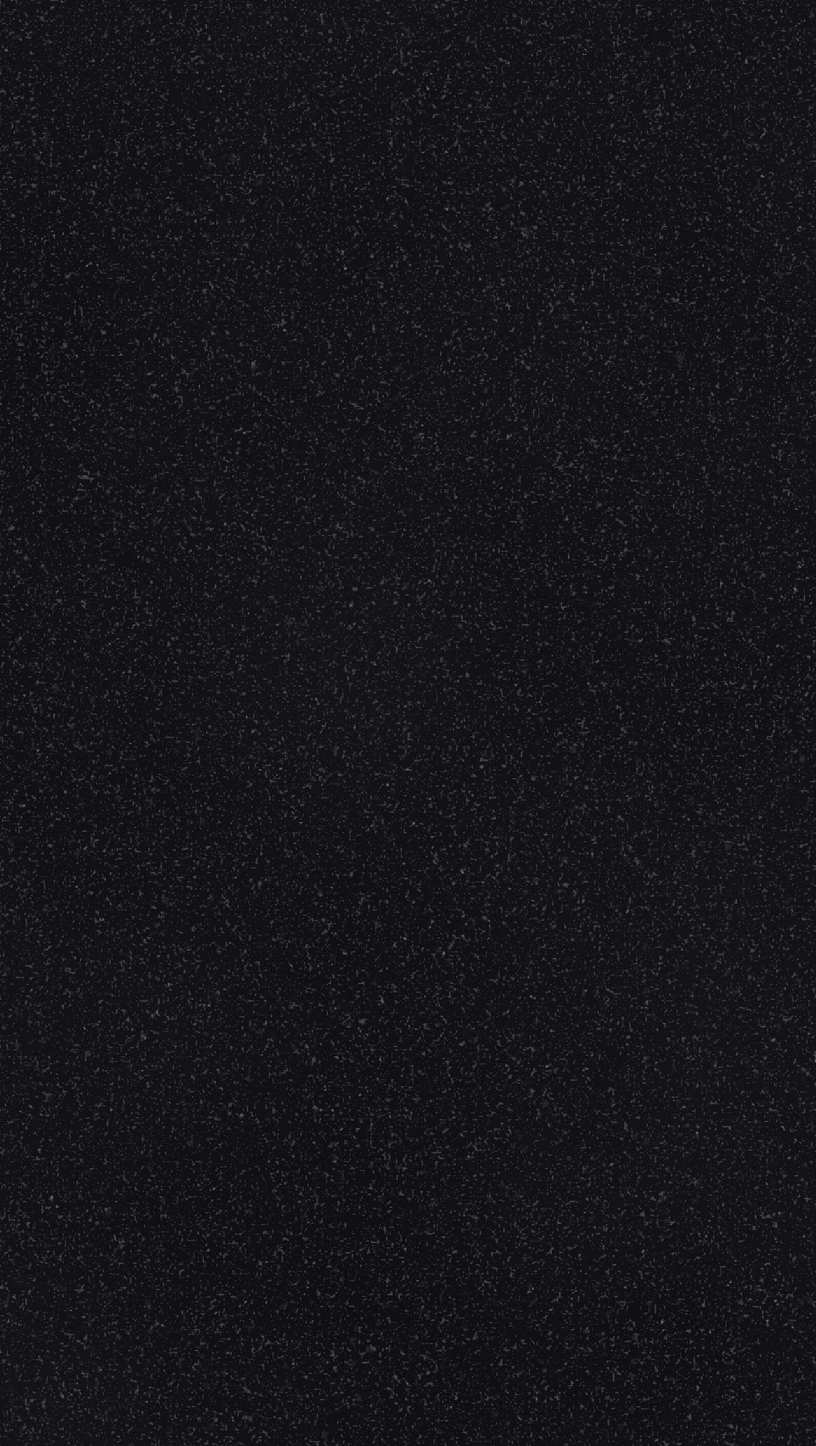
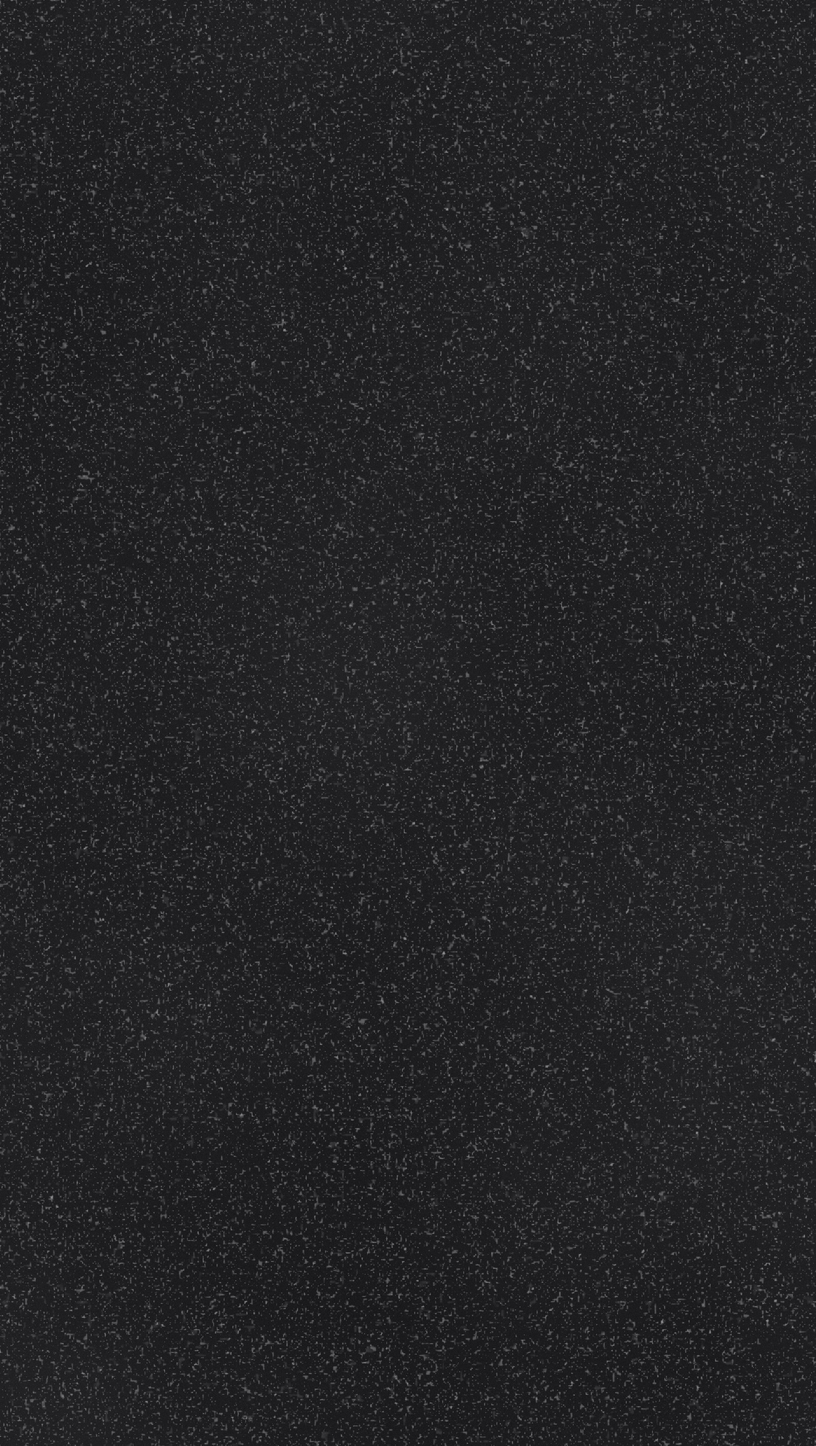
Luz de fundo nas chapas e granito São Gabriel mais visível
Claude-Session: https://claude.ai/code/session_01WwAaZXVwc3FWVQ9s4wcZeq

diff --git a/blackfriday-artizgran/video3d.html b/blackfriday-artizgran/video3d.html
@@ -45,6 +45,7 @@ html,body{width:1080px;height:1920px;overflow:hidden;background:#000}
   <div class="layer" id="Lnero" style="opacity:1">
     <div class="bg" id="bgNero" style="background-image:url(assets/nero.jpg);opacity:.22;filter:blur(10px)"></div>
     <div class="shade" id="neroShade" style="background:radial-gradient(ellipse at 50% 42%,rgba(60,52,40,.55) 0%,rgba(10,10,11,.6) 55%,rgba(0,0,0,.95) 100%)"></div>
+    <div id="glow" style="position:absolute;inset:0;opacity:0;background:radial-gradient(ellipse 640px 820px at 50% 40%,rgba(235,205,140,.75) 0%,rgba(190,150,90,.35) 40%,rgba(0,0,0,0) 72%)"></div>
     <canvas id="gl" width="1080" height="1920" style="position:absolute;inset:0"></canvas>
     <div class="vignette" style="opacity:.6"></div>
   </div>
@@ -196,6 +197,7 @@ function render(t){
   }
   $('badge').style.opacity = win(t,S.stones[0]+.3,S.stones[1],.6,.4);
   $('badge').style.zIndex = 9;
+  $('glow').style.opacity = win(t,S.stones[0]-.1,S.stones[1]+.2,.5,.5);
 
   // ---- Cena 5: showroom
   $('C5').style.opacity = win(t,S.c5[0],S.c5[1],.4,.4);

diff --git a/blackfriday-artizgran/gerar_texturas.py b/blackfriday-artizgran/gerar_texturas.py
@@ -164,9 +164,9 @@ def sao_gabriel(seed=9):
     g2 = np.clip((value_noise(W, H, 3, rng) - 0.86) * 9, 0, 1)
     g3 = np.clip((value_noise(W, H, 7, rng) - 0.82) * 5, 0, 1)
     spark = np.clip((rng.random((H, W)) - 0.997) * 300, 0, 1).astype(np.float32)
-    arr = colorize([(g3, (48, 48, 50), 0.8), (g1, (84, 84, 86), 0.75),
-                    (g2, (138, 138, 140), 0.7), (spark, (220, 220, 222), 0.8)],
-                   (18, 18, 20), (8, 8, 8), rng, 0.03)
+    arr = colorize([(g3, (66, 66, 68), 0.85), (g1, (110, 110, 112), 0.8),
+                    (g2, (170, 170, 172), 0.75), (spark, (235, 235, 238), 0.9)],
+                   (30, 30, 33), (14, 14, 14), rng, 0.035)
     save(arr, "granito_sao_gabriel.jpg", blur=0.5)
 
 
